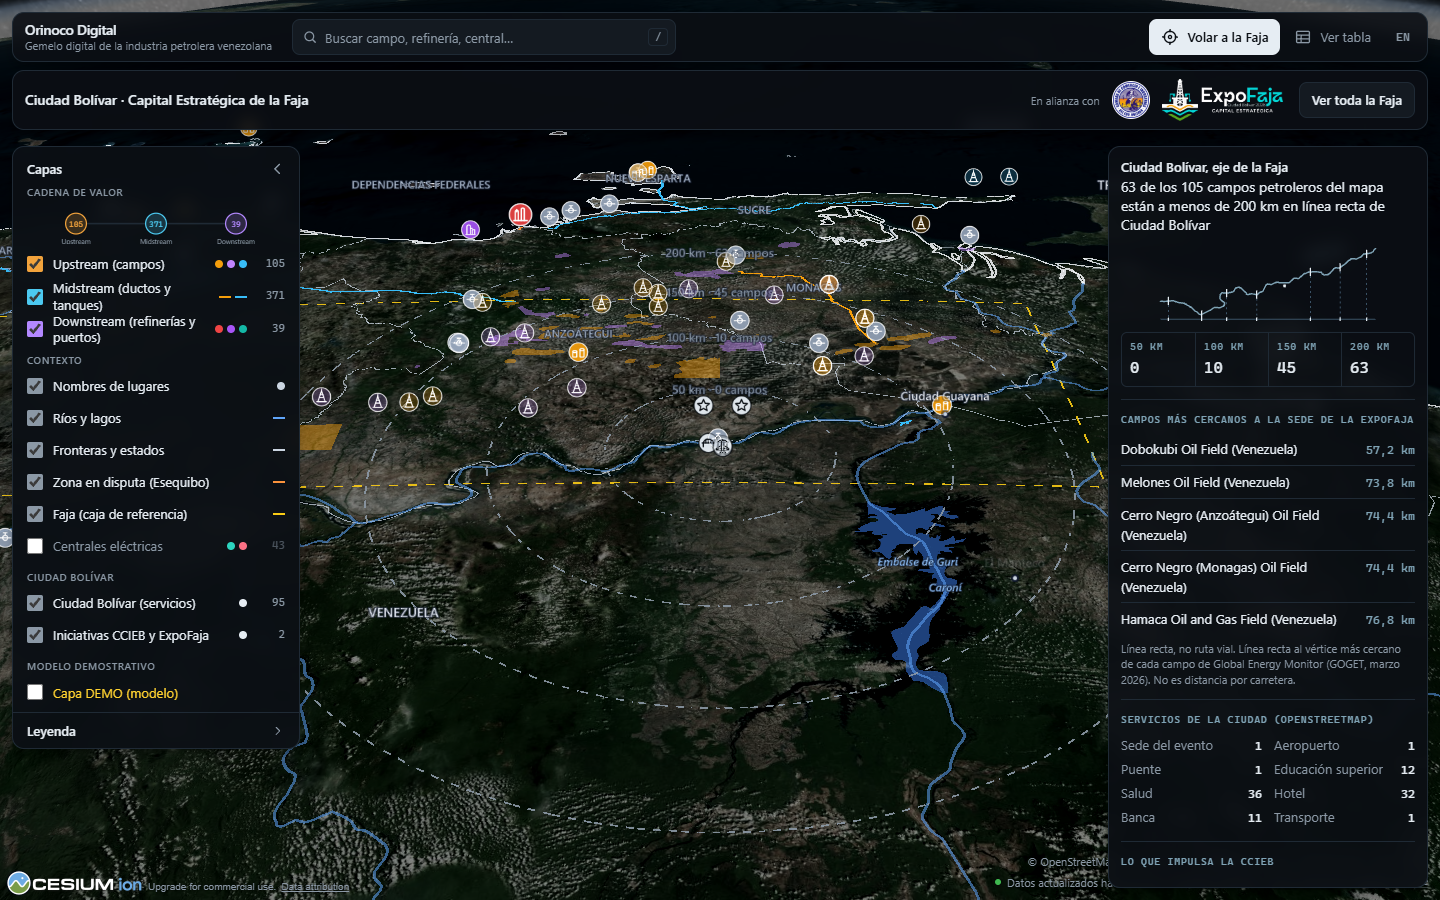
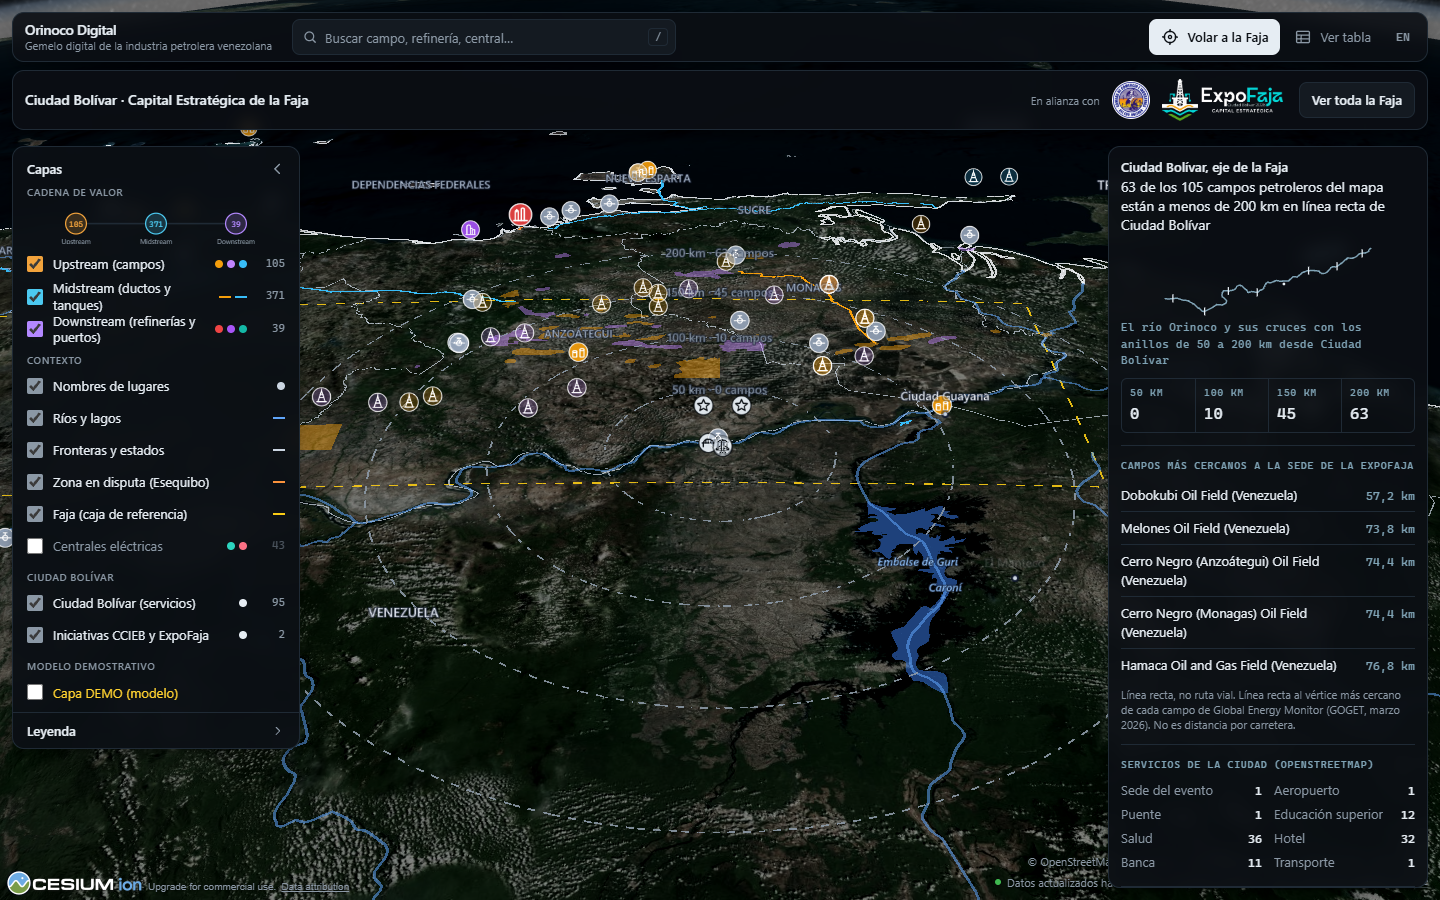
fix(identidad): la regla del rio no debe parecer un grafico
Sin eje ni lineas guia: con ellos el cauce (que sube hacia el noreste)
se leia como una serie que crece. Quedan el rio, la ciudad y una marca
corta en cada cruce de anillo, como en el muestrario aprobado, y una
leyenda ES/EN (regla.leyenda) en el mapa y en el micrositio. En movil la
regla pasa a "Ver detalles": plegada hacia crecer el panel y tapaba el
anillo de 100 km del encuadre. Capturas despues actualizadas.

Changed region(s): [[0.7812, 0.3111, 1.0, 0.9644], [0.9062, 0.28, 0.9375, 0.3111]]

diff --git a/src/ui/reglaRio.js b/src/ui/reglaRio.js
@@ -15,9 +15,8 @@ const NS = "http://www.w3.org/2000/svg";
 
 /** Margen alrededor del trazo, en km locales. */
 const MARGEN = 8;
-/** Medio largo de la marca sobre el rio y de la marca del eje, en km locales. */
+/** Medio largo de la marca sobre el rio, en km locales. */
 const MARCA = 7;
-const MARCA_EJE = 3;
 
 /**
  * @typedef {Object} ReglaRio
@@ -27,21 +26,21 @@ const MARCA_EJE = 3;
  */
 
 /**
- * Geometria de la regla: caja de vista, eje y marcas. Pura, sin DOM.
+ * Geometria de la regla: caja de vista y marcas. Pura, sin DOM.
+ * Sin eje ni lineas guia a proposito: con ellos el cauce (que sube hacia el
+ * noreste) se leia como un grafico de tendencia. Es un mapa, no una serie.
  * @param {ReglaRio} regla
- * @returns {{viewBox: string, ancho: number, alto: number, ejeY: number,
+ * @returns {{viewBox: string, ancho: number, alto: number,
  *   marcas: Array<{km: number, x: number, y: number}>}}
  */
 export function geometriaRegla(regla) {
   const { minX, maxX, minY, maxY } = regla.caja;
-  const ejeY = maxY + MARGEN;
   const ancho = maxX - minX + 2 * MARGEN;
-  const alto = ejeY + MARGEN - (minY - MARGEN);
+  const alto = maxY - minY + 2 * MARGEN;
   return {
     viewBox: [minX - MARGEN, minY - MARGEN, ancho, alto].map((n) => Math.round(n * 10) / 10).join(" "),
     ancho,
     alto,
-    ejeY,
     marcas: regla.cruces.map(({ km, xy }) => ({ km, x: xy[0], y: xy[1] })),
   };
 }
@@ -71,14 +70,6 @@ export function crearReglaRio(regla, { trazar = false, clase = "" } = {}) {
     focusable: "false",
   });
 
-  const [minX, maxX] = [regla.caja.minX, regla.caja.maxX];
-  svg.append(el("line", { class: "base", x1: minX, x2: maxX, y1: g.ejeY, y2: g.ejeY }));
-  for (const m of g.marcas) {
-    svg.append(
-      el("line", { class: "guia", x1: m.x, x2: m.x, y1: m.y + MARCA, y2: g.ejeY }),
-      el("line", { class: "marca", x1: m.x, x2: m.x, y1: g.ejeY - MARCA_EJE, y2: g.ejeY + MARCA_EJE })
-    );
-  }
   svg.append(el("path", { class: "rio", d: regla.path }));
   for (const m of g.marcas) {
     svg.append(el("line", { class: "marca", x1: m.x, x2: m.x, y1: m.y - MARCA, y2: m.y + MARCA }));

diff --git a/src/ui/modoCiudadBolivar.js b/src/ui/modoCiudadBolivar.js
@@ -193,7 +193,7 @@ function crearRegla() {
   const svg = crearReglaRio(regla, { trazar });
   if (trazar) svg.addEventListener("animationend", () => { estado.reglaTrazada = true; }, { once: true });
   const marco = nodo("div", "mt-2.5");
-  marco.append(svg);
+  marco.append(svg, nodo("p", "regla-leyenda", t("regla.leyenda")));
   return marco;
 }
 
@@ -309,11 +309,13 @@ function crearPanel() {
 
   const frase = crearFrase();
   if (frase) panel.append(frase);
-  const regla = crearRegla();
-  if (regla) panel.append(regla);
 
   // Plegado (movil): solo titulo, frase y boton. En escritorio siempre visible.
+  // La regla va dentro: plegada en movil haria crecer el panel y taparia el
+  // anillo de 100 km que encuadra CAMARA_CIUDAD_BOLIVAR.
   const detalles = nodo("div", estado.detallesAbiertos ? "" : "max-sm:hidden", "", { id: "modo-detalles" });
+  const regla = crearRegla();
+  if (regla) detalles.append(regla);
   if (d.resumenAnillos) detalles.append(crearAnillos(d.resumenAnillos));
   const partes = [
     seccion(t("modo.cercanosSede"), d.cercanos, () => crearCercanos(d.cercanos)),

diff --git a/src/style.css b/src/style.css
@@ -177,7 +177,14 @@ body {
 .regla-rio {
   display: block;
   width: 100%;
-  height: 5rem;
+  height: 4.5rem;
+}
+.regla-leyenda {
+  margin-top: 0.25rem;
+  font-family: var(--font-mono);
+  font-size: 0.6875rem;
+  letter-spacing: 0.04em;
+  color: var(--color-tinta);
 }
 .regla-rio .rio {
   fill: none;
@@ -186,15 +193,6 @@ body {
   stroke-linejoin: round;
   stroke-linecap: round;
   vector-effect: non-scaling-stroke;
-}
-.regla-rio .base,
-.regla-rio .guia {
-  stroke: var(--color-tinta-baja);
-  stroke-width: 1px;
-  vector-effect: non-scaling-stroke;
-}
-.regla-rio .guia {
-  stroke-dasharray: 2 3;
 }
 .regla-rio .marca {
   stroke: var(--color-hi);

diff --git a/src/expofaja/expofaja.css b/src/expofaja/expofaja.css
@@ -332,15 +332,6 @@ body {
   stroke-linecap: round;
   vector-effect: non-scaling-stroke;
 }
-.ef-regla .base,
-.ef-regla .guia {
-  stroke: var(--ef-borde);
-  stroke-width: 1px;
-  vector-effect: non-scaling-stroke;
-}
-.ef-regla .guia {
-  stroke-dasharray: 2 3;
-}
 .ef-regla .marca {
   stroke: var(--color-ef-petroleo);
   stroke-width: 1.25px;
@@ -872,4 +863,10 @@ body {
   display: inline-flex;
   align-items: center;
   min-height: 44px;
+}
+
+.ef-regla-leyenda {
+  margin: 2px 0 0;
+  font-size: 0.75rem;
+  color: var(--color-ef-azul);
 }

diff --git a/src/expofaja/vista.js b/src/expofaja/vista.js
@@ -619,7 +619,7 @@ function iniciativasCcieb() {
 function crearSeparadorRegla() {
   if (!est.reglaRio) return null;
   const caja = el("div", "ef-regla");
-  caja.append(crearReglaRio(est.reglaRio));
+  caja.append(crearReglaRio(est.reglaRio), el("p", "ef-regla-leyenda", t("regla.leyenda")));
   return caja;
 }
 
